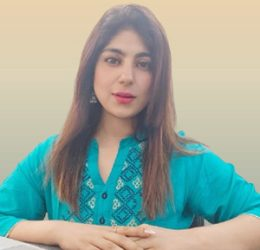
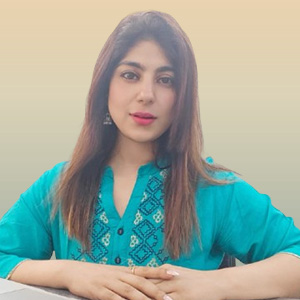
new

diff --git a/src/components/OurTeam/CoreTeam.tsx b/src/components/OurTeam/CoreTeam.tsx
@@ -27,7 +27,7 @@ const CoreTeam = () => {
       description: "From penning her first training module to shaping three thriving business lines, Snehi blends creativity with sharp strategic vision. She leads with clarity, driving innovation across both design and delivery. Her leadership inspires teams to push boundaries and deliver with purpose.",
       image: "/coreteam/snehi.jpg",
       imageWidth: 260,
-      imageHeight: 250,
+      imageHeight: 240,
       linkedin: "https://linkedin.com/in/pravin-unde"
     },
     {
@@ -36,7 +36,7 @@ const CoreTeam = () => {
       description: "As a technologist and entrepreneur, Rajiv brings over two decades of experience in driving AI-powered solutions. His expertise spans AI, analytics, and digital transformation, driving efficiency and innovation across multiple business lines.",
       image: "/coreteam/sonal.jpg",
       imageWidth: 260,
-      imageHeight: 250,
+      imageHeight: 240,
       linkedin: "https://linkedin.com/in/pravin-unde"
     }
   ]
